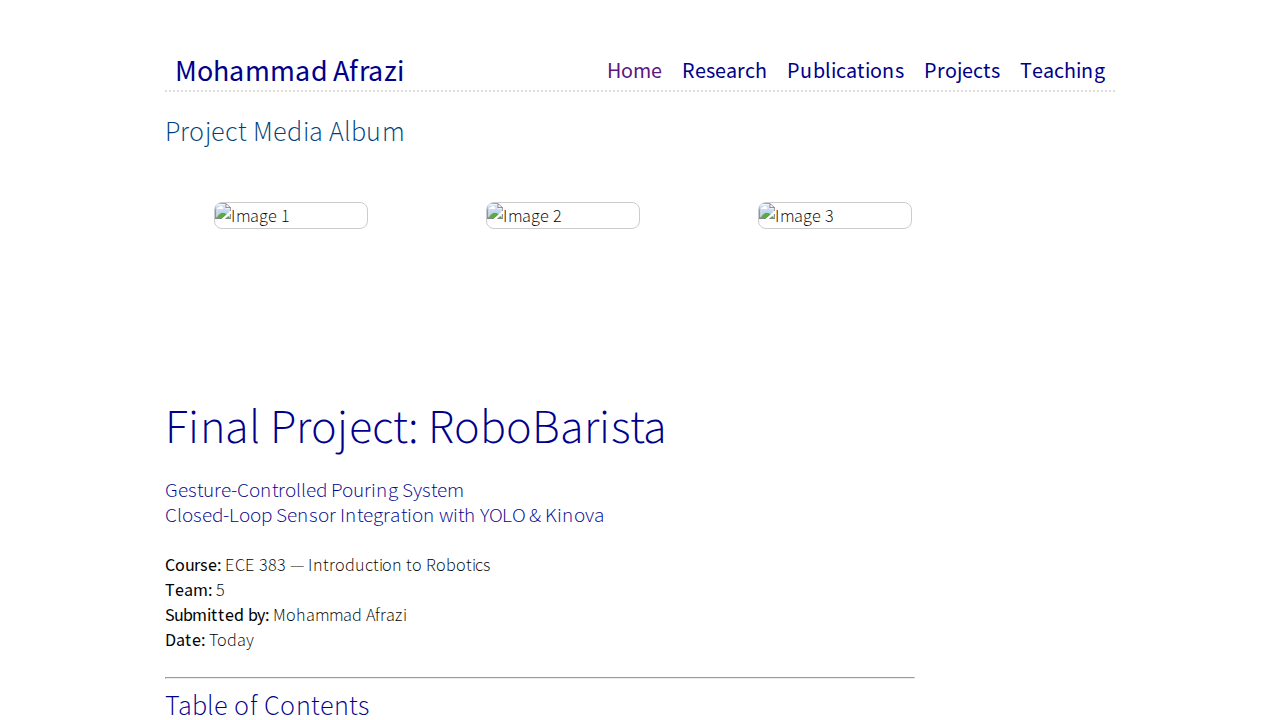
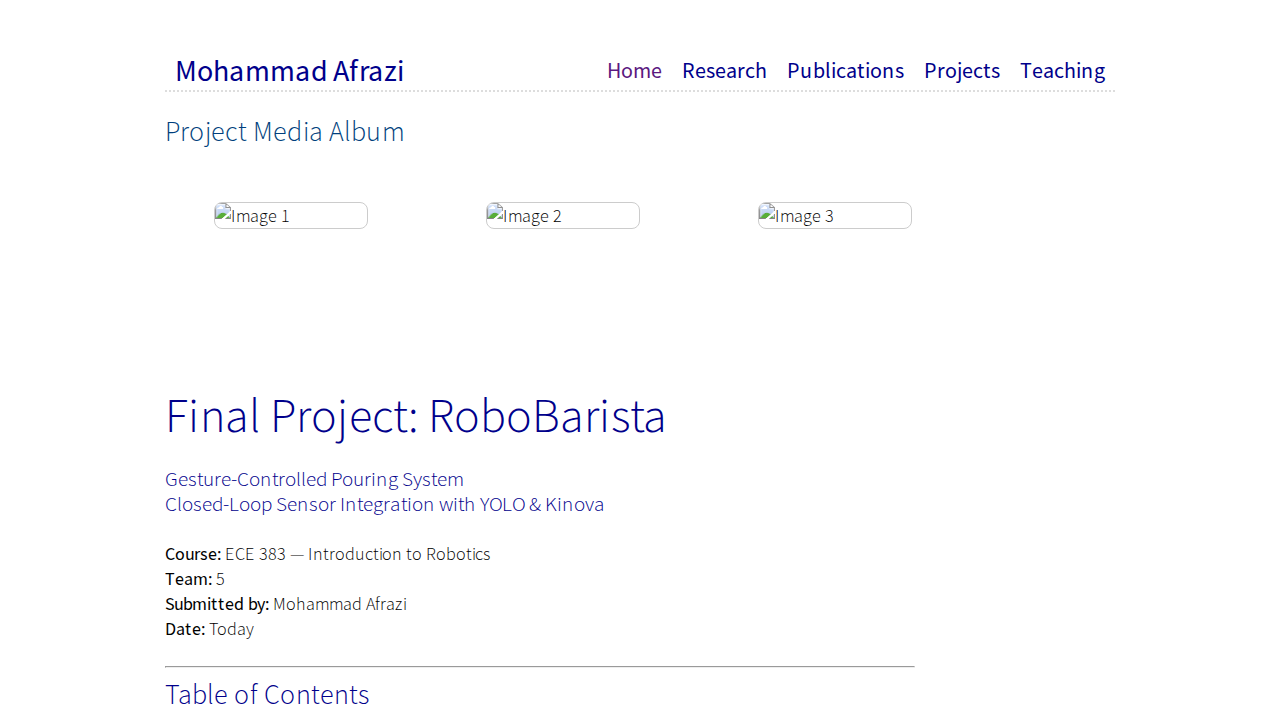
feat: Embed YouTube video in project page
Replaces the self-hosted video file in the ECE 383 project page's media album with an embedded YouTube video player. This improves page load times and reliability.

Changed region(s): [[0.125, 0.55, 0.5312, 0.7333], [0.125, 0.7639, 0.4062, 0.9167], [0.125, 0.9472, 0.2812, 1.0]]

diff --git a/ece383.html b/ece383.html
@@ -80,7 +80,9 @@
                 <div class="album-item"><img src="image2.png" alt="Image 2"></div>
                 <div class="album-item"><img src="image3.png" alt="Image 3"></div>
                 <div class="album-item"><img src="image4.png" alt="Image 4"></div>
-                <div class="album-item"><video controls><source src="video.mp4" type="video/mp4">Your browser does not support video.</video></div>
+                <div class="album-item">
+                    <iframe width="250" height="141" src="https://www.youtube.com/embed/S4rzMDp9mQ8" title="YouTube video player" frameborder="0" allow="accelerometer; autoplay; clipboard-write; encrypted-media; gyroscope; picture-in-picture; web-share" allowfullscreen></iframe>
+                </div>
             </div>
 
             <h1>Final Project: RoboBarista</h1>
